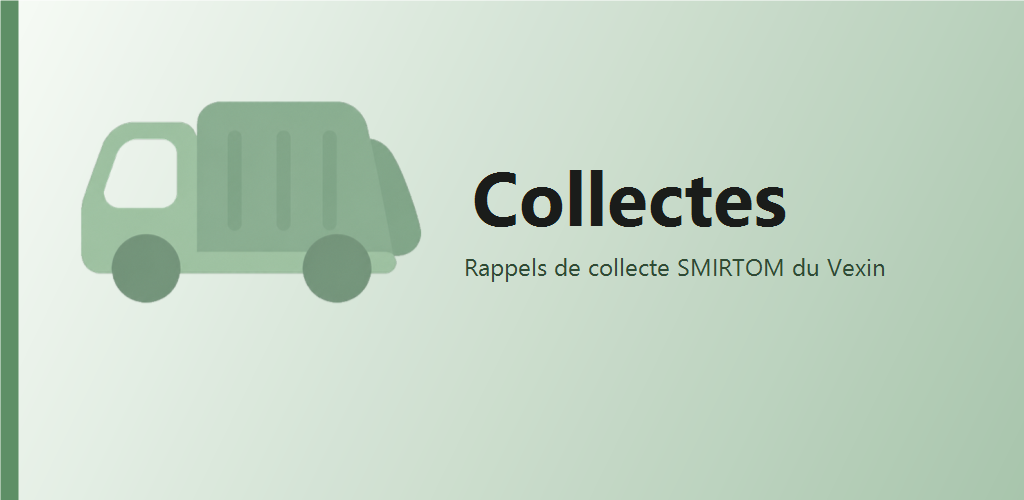
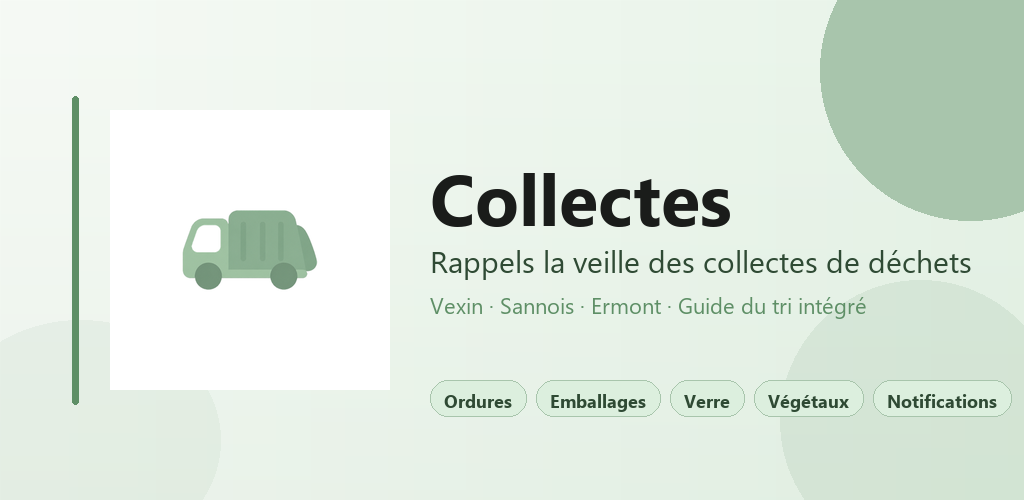
Update feature graphic for Play Store submission

diff --git a/android/store/generate_feature_graphic.py b/android/store/generate_feature_graphic.py
@@ -1,0 +1,113 @@
+"""Generate Play Store feature graphic (1024x500)."""
+from pathlib import Path
+
+from PIL import Image, ImageDraw, ImageFont
+
+WIDTH, HEIGHT = 1024, 500
+ROOT = Path(__file__).resolve().parent
+ICON = ROOT / "ic_launcher_play_store_512.png"
+OUT = ROOT / "feature_graphic_1024x500.png"
+
+# App theme (Theme.kt)
+SAGE = (0x5E, 0x8F, 0x66)
+SAGE_SOFT = (0xA8, 0xC5, 0xAC)
+MINT = (0xDC, 0xEF, 0xDE)
+BG = (0xF7, 0xFB, 0xF6)
+TEXT = (0x1A, 0x1C, 0x1A)
+TEXT_MUTED = (0x2F, 0x4A, 0x34)
+
+
+def lerp(a: int, b: int, t: float) -> int:
+    return int(a + (b - a) * t)
+
+
+def gradient_background() -> Image.Image:
+    img = Image.new("RGB", (WIDTH, HEIGHT))
+    px = img.load()
+    for x in range(WIDTH):
+        t = x / (WIDTH - 1)
+        r = lerp(BG[0], MINT[0], t * 0.55)
+        g = lerp(BG[1], MINT[1], t * 0.55)
+        b = lerp(BG[2], MINT[2], t * 0.55)
+        for y in range(HEIGHT):
+            ty = y / (HEIGHT - 1)
+            rr = lerp(r, SAGE_SOFT[0], ty * 0.12)
+            gg = lerp(g, SAGE_SOFT[1], ty * 0.12)
+            bb = lerp(b, SAGE_SOFT[2], ty * 0.12)
+            px[x, y] = (rr, gg, bb)
+    return img
+
+
+def load_font(size: int, bold: bool = False) -> ImageFont.FreeTypeFont | ImageFont.ImageFont:
+    candidates = [
+        r"C:\Windows\Fonts\segoeuib.ttf" if bold else r"C:\Windows\Fonts\segoeui.ttf",
+        r"C:\Windows\Fonts\arialbd.ttf" if bold else r"C:\Windows\Fonts\arial.ttf",
+    ]
+    for path in candidates:
+        if Path(path).exists():
+            return ImageFont.truetype(path, size)
+    return ImageFont.load_default()
+
+
+def main() -> None:
+    canvas = gradient_background()
+    draw = ImageDraw.Draw(canvas)
+
+    # Decorative circles
+    draw.ellipse((820, -80, 1120, 220), fill=(*SAGE_SOFT, 40))
+    overlay = Image.new("RGBA", (WIDTH, HEIGHT), (0, 0, 0, 0))
+    odraw = ImageDraw.Draw(overlay)
+    odraw.ellipse((780, 280, 1060, 560), fill=(94, 143, 102, 28))
+    odraw.ellipse((-60, 320, 220, 560), fill=(168, 197, 172, 35))
+    canvas = Image.alpha_composite(canvas.convert("RGBA"), overlay).convert("RGB")
+    draw = ImageDraw.Draw(canvas)
+
+    # Accent bar
+    draw.rounded_rectangle((72, 96, 78, 404), radius=3, fill=SAGE)
+
+    # Icon
+    icon = Image.open(ICON).convert("RGBA")
+    icon_size = 280
+    icon = icon.resize((icon_size, icon_size), Image.Resampling.LANCZOS)
+    canvas.paste(icon, (110, (HEIGHT - icon_size) // 2), icon)
+    draw = ImageDraw.Draw(canvas)
+
+    title_font = load_font(72, bold=True)
+    subtitle_font = load_font(30, bold=False)
+    tag_font = load_font(22, bold=False)
+
+    title = "Collectes"
+    subtitle = "Rappels la veille des collectes de déchets"
+    tagline = "Vexin · Sannois · Ermont · Guide du tri intégré"
+
+    text_x = 430
+    title_y = 148
+    draw.text((text_x, title_y), title, fill=TEXT, font=title_font)
+    draw.text((text_x, title_y + 92), subtitle, fill=TEXT_MUTED, font=subtitle_font)
+    draw.text((text_x, title_y + 142), tagline, fill=SAGE, font=tag_font)
+
+    # Bottom feature pills
+    pills = ["Ordures", "Emballages", "Verre", "Végétaux", "Notifications"]
+    pill_y = 380
+    pill_x = text_x
+    pill_font = load_font(18, bold=True)
+    for label in pills:
+        bbox = draw.textbbox((0, 0), label, font=pill_font)
+        pw = bbox[2] - bbox[0] + 28
+        ph = 36
+        draw.rounded_rectangle(
+            (pill_x, pill_y, pill_x + pw, pill_y + ph),
+            radius=18,
+            fill=(220, 239, 222),
+            outline=SAGE_SOFT,
+            width=1,
+        )
+        draw.text((pill_x + 14, pill_y + 8), label, fill=TEXT_MUTED, font=pill_font)
+        pill_x += pw + 10
+
+    canvas.save(OUT, format="PNG", optimize=True)
+    print(f"Saved {OUT} ({OUT.stat().st_size // 1024} KB)")
+
+
+if __name__ == "__main__":
+    main()
